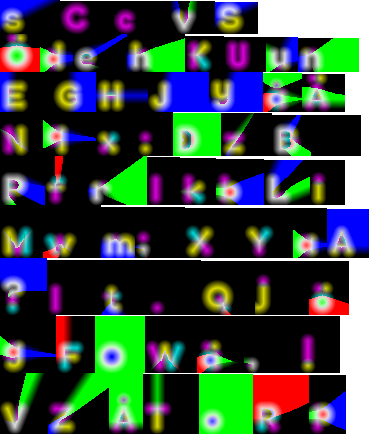
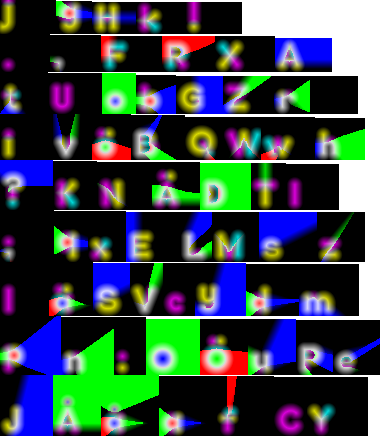
More WIP

diff --git a/hugame-desktop-vulkan/src/main/java/dev/hugame/vulkan/core/VulkanDevice.java b/hugame-desktop-vulkan/src/main/java/dev/hugame/vulkan/core/VulkanDevice.java
@@ -8,7 +8,6 @@ import dev.hugame.vulkan.surface.VulkanSurface;
 import java.util.List;
 import java.util.Set;
 import java.util.stream.IntStream;
-
 import lombok.Getter;
 import org.lwjgl.vulkan.*;
 
@@ -293,13 +292,10 @@ public class VulkanDevice {
 
   public static class DeviceSupport {
     private boolean geometryShaderSupport;
-    @Getter
-    private QueueFamilyIndices queueFamilyIndices;
+    @Getter private QueueFamilyIndices queueFamilyIndices;
     private List<String> supportedExtensions;
-    @Getter
-    private DeviceSwapChainSupport swapChainSupport;
-    @Getter
-    private DeviceLimits limits;
+    @Getter private DeviceSwapChainSupport swapChainSupport;
+    @Getter private DeviceLimits limits;
 
     public boolean isAdequate() {
       return geometryShaderSupport
@@ -307,7 +303,6 @@ public class VulkanDevice {
           && supportedExtensions.contains("VK_KHR_swapchain")
           && swapChainSupport.isAdequate();
     }
-
   }
 
   public static class DeviceSwapChainSupport {
@@ -324,12 +319,9 @@ public class VulkanDevice {
 
   private final VkPhysicalDevice physicalDevice;
   private final VkDevice logicalDevice;
-  @Getter
-  private final GraphicsQueue graphicsQueue;
-  @Getter
-  private final PresentQueue presentQueue;
-  @Getter
-  private final DeviceSupport support;
+  @Getter private final GraphicsQueue graphicsQueue;
+  @Getter private final PresentQueue presentQueue;
+  @Getter private final DeviceSupport support;
 
   private VulkanDevice(
       VkPhysicalDevice physicalDevice,
